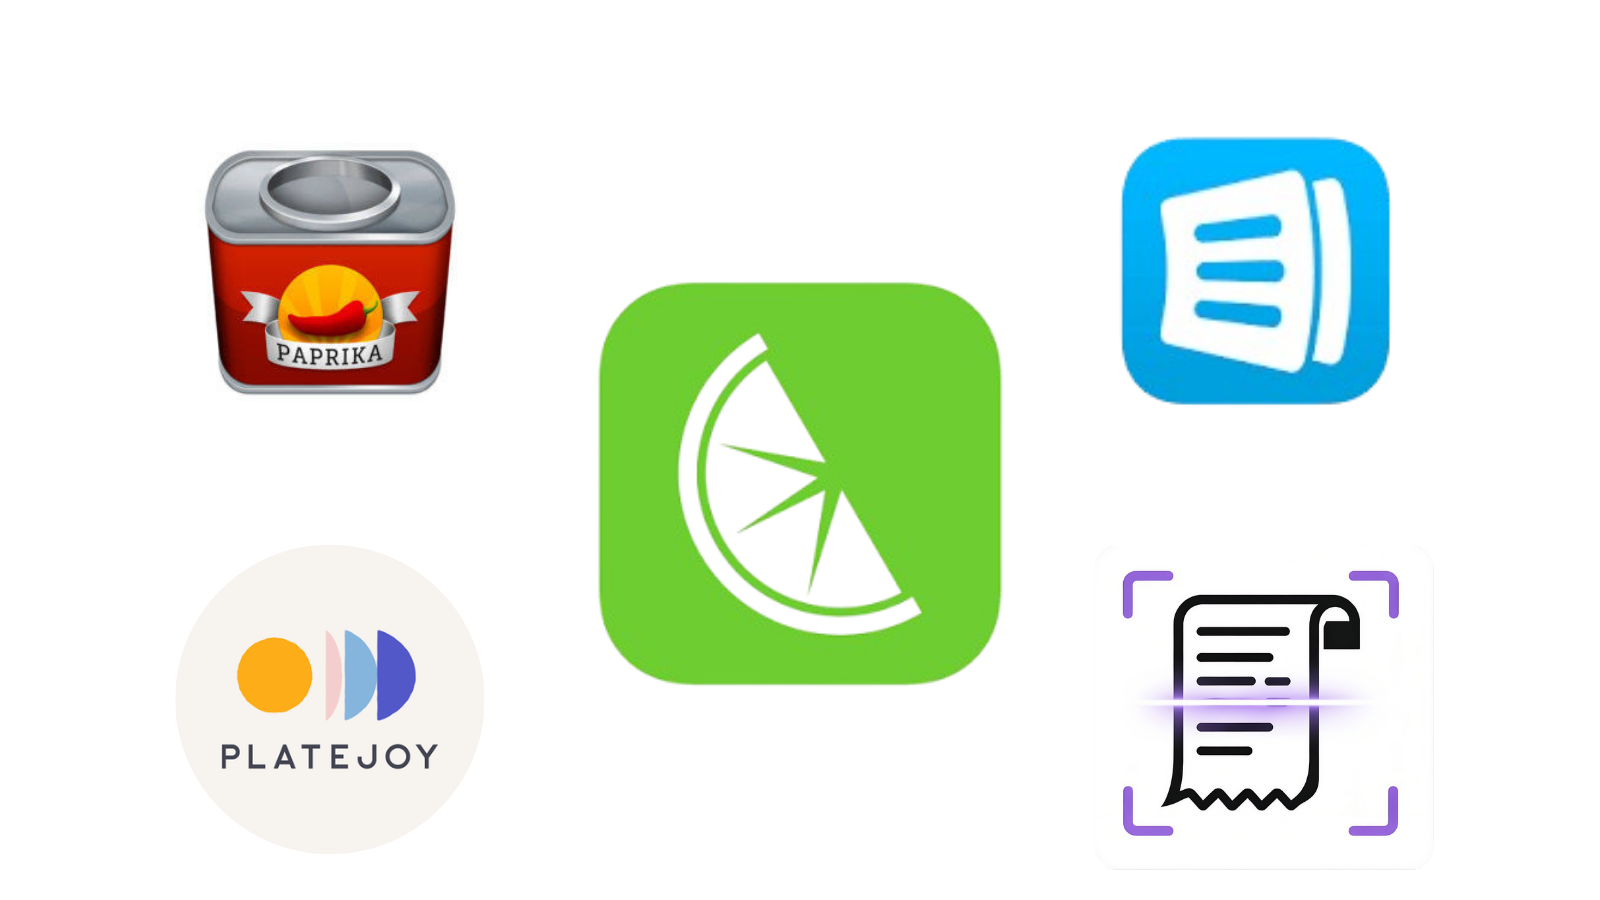
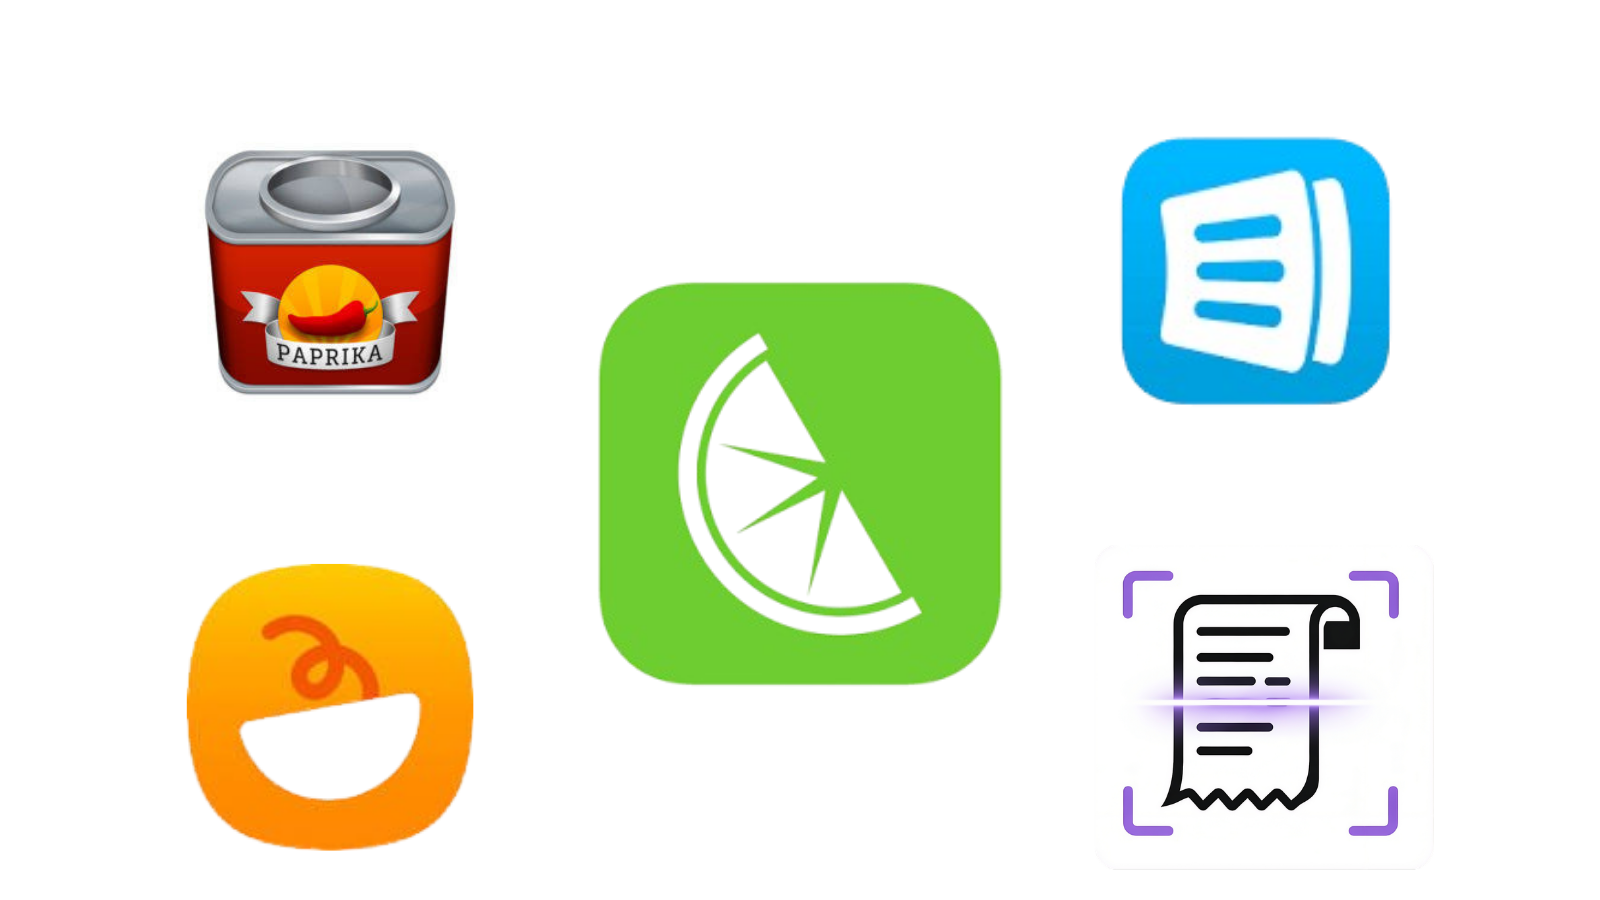
updated meal plannng blog

Changed region(s): [[0.0938, 0.6222, 0.3125, 0.9644]]

diff --git a/src/pages/BestMealPlanningApps.tsx b/src/pages/BestMealPlanningApps.tsx
@@ -5,7 +5,7 @@ import ShareButtons from '../components/ShareButtons'
 import JsonLd from '../components/JsonLd'
 
 const TITLE = '5 Best Meal Planning Apps in 2026 | Edible'
-const DESCRIPTION = 'Comparing five popular meal planning apps, including Mealime, AnyList, Edible, Paprika, and PlateJoy, to help you pick the one that fits your household.'
+const DESCRIPTION = 'Comparing five popular meal planning apps, including Mealime, AnyList, Edible, Paprika, and Samsung Food, to help you pick the one that fits your household.'
 const ARTICLE_TITLE = '5 Best Meal Planning Apps in 2026 (and Who Each One Is Actually For)'
 const FAQ_ITEMS = [
 	{
@@ -72,7 +72,7 @@ export default function BestMealPlanningApps() {
 				<source srcSet="/blog/best-meal-planning-apps-hero.webp" type="image/webp" />
 				<img
 					src="/blog/best-meal-planning-apps-hero.png"
-					alt="Logos of five popular meal planning apps: Mealime, AnyList, Edible, Paprika, and PlateJoy"
+					alt="Logos of five popular meal planning apps: Mealime, AnyList, Edible, Paprika, and Samsung Food"
 					width={1600}
 					height={900}
 					loading="eager"
@@ -140,10 +140,10 @@ export default function BestMealPlanningApps() {
 							<td className="px-4 sm:px-6 py-4 text-gray-600 whitespace-nowrap">$4.99 mobile / $29.99 desktop, one time</td>
 						</tr>
 						<tr className="bg-white border-t border-gray-100">
-							<td className="px-4 sm:px-6 py-4 font-bold text-gray-900 whitespace-nowrap">PlateJoy</td>
-							<td className="px-4 sm:px-6 py-4 text-gray-600">Fully personalized menus via detailed quiz</td>
-							<td className="px-4 sm:px-6 py-4 text-gray-600 whitespace-nowrap">No (10 day trial only)</td>
-							<td className="px-4 sm:px-6 py-4 text-gray-600 whitespace-nowrap">$8.25 to $12.99/mo depending on term</td>
+							<td className="px-4 sm:px-6 py-4 font-bold text-gray-900 whitespace-nowrap">Samsung Food</td>
+							<td className="px-4 sm:px-6 py-4 text-gray-600">Importing recipes from anywhere</td>
+							<td className="px-4 sm:px-6 py-4 text-gray-600">Yes</td>
+							<td className="px-4 sm:px-6 py-4 text-gray-600 whitespace-nowrap">$6.99/mo or $59.99/yr</td>
 						</tr>
 					</tbody>
 				</table>
@@ -257,24 +257,24 @@ export default function BestMealPlanningApps() {
 			<hr className="border-t border-gray-200 my-8 md:my-10" />
 
 			<h2 className="text-xl font-bold text-gray-900 mb-4" style={{ fontFamily: "'Montserrat', sans-serif", fontWeight: 700 }}>
-				5. PlateJoy, Best for Fully Personalized, Quiz-Driven Menus
+				5. Samsung Food, Best for Importing Recipes From Anywhere
 			</h2>
 
 			<p className="text-gray-700 leading-relaxed mb-6">
-				PlateJoy asks over fifty questions about your preferences, then builds a weekly menu around the answers, with one click ordering through Instacart or Amazon Fresh.
+				Samsung Food pulls recipes in from almost any source, social media videos, websites, even photos of handwritten recipe cards, and organizes them into one place alongside meal planning and grocery lists.
 			</p>
 
 			<p className="text-gray-700 leading-relaxed mb-6">
-				It's the most done for you option on this list in terms of decision making, but that personalization is quiz based rather than built from your actual current groceries. Best for people happy to answer a detailed questionnaire once and get hands off menus going forward.
+				It's a strong pick if you're the type who saves recipes from fifteen different places and never looks at them again. The tradeoff is it's more of a recipe hub with planning features bolted on than a dedicated meal-planning-first tool, and some of its smart features work best if you're already in the Samsung device ecosystem. The free tier is generous, recipes, meal planning, and grocery lists all work without paying, though it does show ads and gates AI-personalized features and advanced nutrition tracking behind the $6.99/mo Food+ subscription.
 			</p>
 
 			<a
-				href="https://www.platejoy.com"
+				href="https://samsungfood.com"
 				target="_blank"
 				rel="noopener noreferrer"
 				className="inline-flex items-center justify-center gap-2 px-6 py-3.5 min-h-[48px] rounded-full bg-purple-600 text-white font-semibold text-sm hover:bg-purple-700 active:scale-95 transition-all duration-200"
 			>
-				Visit PlateJoy
+				Visit Samsung Food
 				<span className="text-xs">↗</span>
 			</a>
 
@@ -289,7 +289,7 @@ export default function BestMealPlanningApps() {
 			</p>
 
 			<p className="text-gray-700 leading-relaxed mb-6">
-				If you're organizing recipes you already collect, Paprika fits. If you'd rather answer a quiz once and let the app decide everything, PlateJoy is built for that.
+				If you're organizing recipes you already collect, Paprika fits. If you save recipes from everywhere and want them all in one place, Samsung Food is built for that.
 			</p>
 
 			<hr className="border-t border-gray-200 my-8 md:my-10" />

diff --git a/src/pages/Blog.tsx b/src/pages/Blog.tsx
@@ -38,14 +38,14 @@ const posts: Post[] = [
 	},
 	{
 		title: '5 Best Meal Planning Apps in 2026',
-		excerpt: 'Comparing five popular meal planning apps, including Mealime, AnyList, Edible, Paprika, and PlateJoy, to help you pick the one that fits your household.',
+		excerpt: 'Comparing five popular meal planning apps, including Mealime, AnyList, Edible, Paprika, and Samsung Food, to help you pick the one that fits your household.',
 		readingTime: '4 min read',
 		date: 'August 19, 2026',
 		href: '/blog/best-meal-planning-apps',
 		thumbnail: {
 			webp: '/blog/best-meal-planning-apps-hero.webp',
 			png: '/blog/best-meal-planning-apps-hero.png',
-			alt: 'Logos of five popular meal planning apps: Mealime, AnyList, Edible, Paprika, and PlateJoy',
+			alt: 'Logos of five popular meal planning apps: Mealime, AnyList, Edible, Paprika, and Samsung Food',
 			width: 1600,
 			height: 900,
 		},
